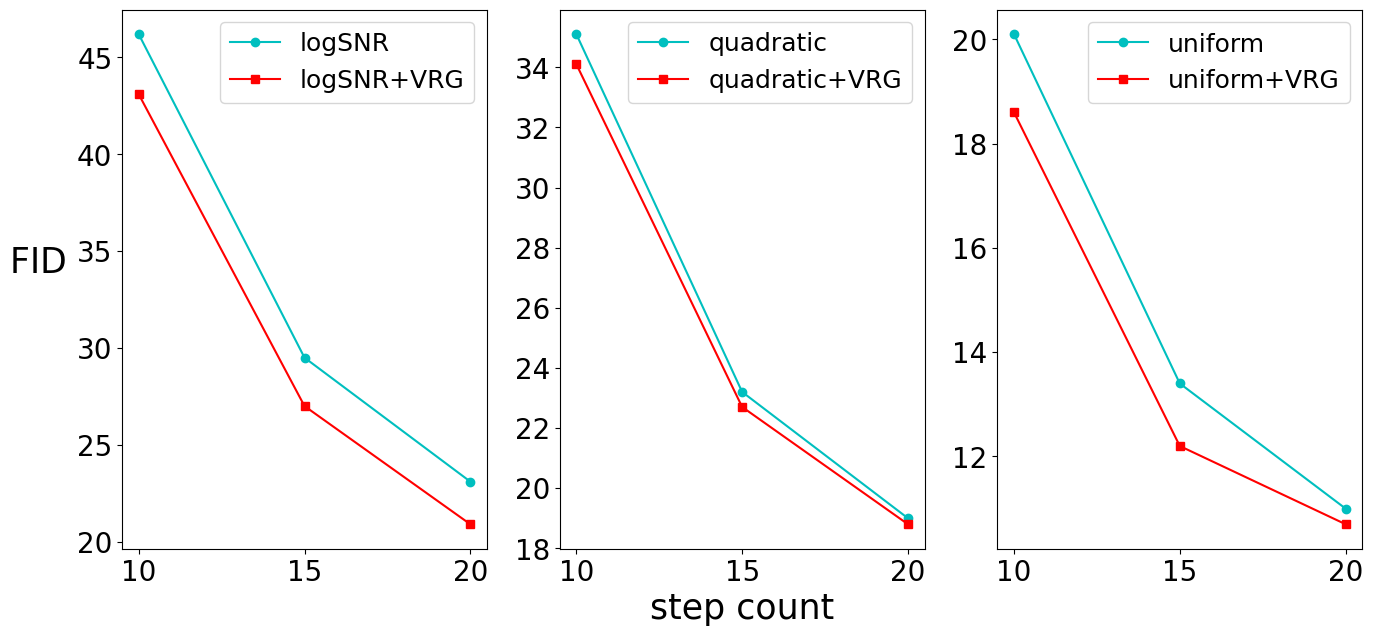
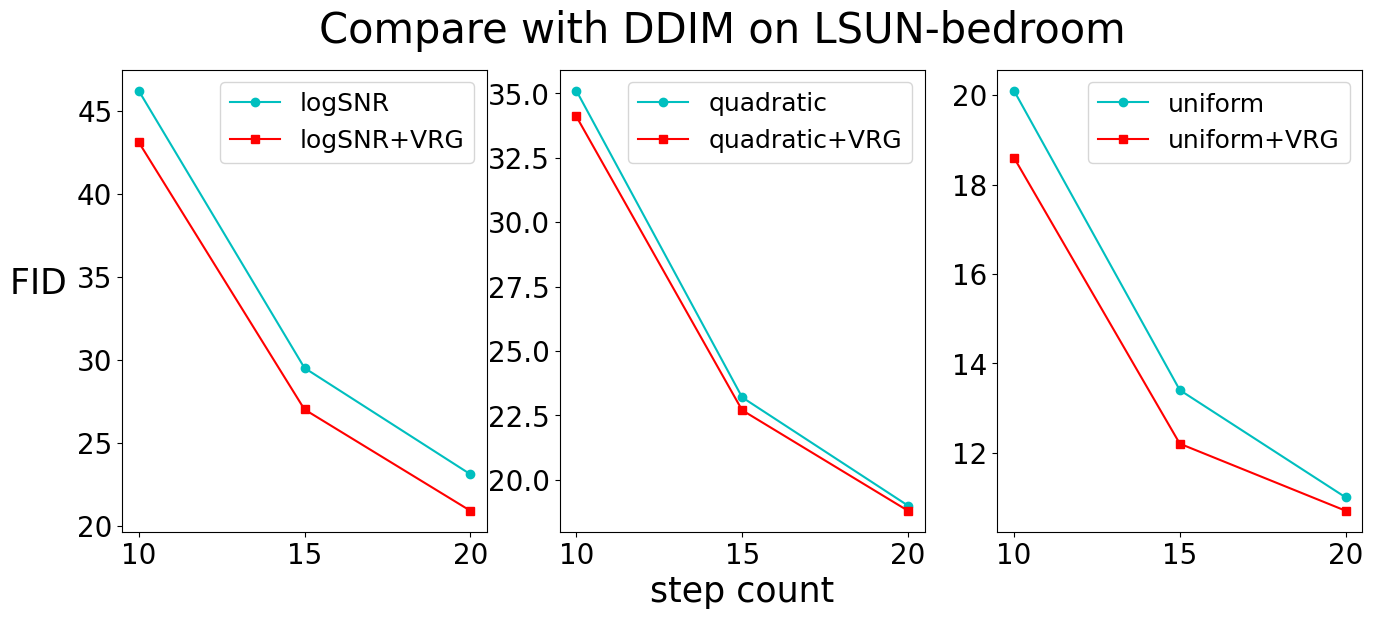
main_chart.py: add more figures.

diff --git a/main_chart.py b/main_chart.py
@@ -392,7 +392,7 @@ def fid_compare_ddim_cifar10():
     fid_uni = [16.8, 10.7, 8.3, 7.1, 4.8, 4.0]    # uniform
     fid_un2 = [11.1,  7.7, 6.1, 5.8, 4.4, 3.8]    # uniform + VRG
     steps = ['10', '15', '20', '25', '50', '100']
-    fig = plt.figure(figsize=(16, 7))
+    fig = plt.figure(figsize=(16, 6))
     ax1 = fig.add_subplot(1, 3, 1)
     ax2 = fig.add_subplot(1, 3, 2)
     ax3 = fig.add_subplot(1, 3, 3)
@@ -411,8 +411,9 @@ def fid_compare_ddim_cifar10():
         ax.plot(steps, fids[1], linestyle='-', color='r', marker='s', label=lbs[1])
         ax.legend(fontsize=18, loc='upper right')
     # for
+    fig.suptitle("Compare with DDIM on CIFAR10", fontsize=30)
     plt.show()
-    f_path = './configs/chart/fid_compare_ddim.png'
+    f_path = './configs/chart/fid_ddim_cifar10.png'
     fig.savefig(f_path, bbox_inches='tight')
     print(f"file saved: {f_path}")
     plt.close()
@@ -425,7 +426,7 @@ def fid_compare_ddim_bedroom():
     fid_uni = [20.1, 13.4, 11.0]    # uniform
     fid_un2 = [18.6, 12.2, 10.7]    # uniform + VRG
     steps = ['10', '15', '20']
-    fig = plt.figure(figsize=(16, 7))
+    fig = plt.figure(figsize=(16, 6))
     ax1 = fig.add_subplot(1, 3, 1)
     ax2 = fig.add_subplot(1, 3, 2)
     ax3 = fig.add_subplot(1, 3, 3)
@@ -444,6 +445,7 @@ def fid_compare_ddim_bedroom():
         ax.plot(steps, fids[1], linestyle='-', color='r', marker='s', label=lbs[1])
         ax.legend(fontsize=18, loc='upper right')
     # for
+    fig.suptitle("Compare with DDIM on LSUN-bedroom", fontsize=30)
     plt.show()
     f_path = './configs/chart/fid_ddim_bedroom.png'
     fig.savefig(f_path, bbox_inches='tight')
@@ -458,7 +460,7 @@ def fid_compare_ddim_celeba():
     fid_uni = [15.4, 9.6, 7.1]      # uniform
     fid_un2 = [14.7, 9.2, 7.0]      # uniform + VRG
     steps = ['10', '15', '20']
-    fig = plt.figure(figsize=(16, 7))
+    fig = plt.figure(figsize=(16, 6))
     ax1 = fig.add_subplot(1, 3, 1)
     ax2 = fig.add_subplot(1, 3, 2)
     ax3 = fig.add_subplot(1, 3, 3)
@@ -477,10 +479,248 @@ def fid_compare_ddim_celeba():
         ax.plot(steps, fids[1], linestyle='-', color='r', marker='s', label=lbs[1])
         ax.legend(fontsize=18, loc='upper right')
     # for
+    fig.suptitle("Compare with DDIM on CelebA", fontsize=30)
     plt.show()
     f_path = './configs/chart/fid_ddim_celeba.png'
     fig.savefig(f_path, bbox_inches='tight')
     print(f"file saved: {f_path}")
+    plt.close()
+
+def fid_compare_pndm_cifar10():
+    fid_s  = [22.192, 9.7003, 6.8920, 5.6528]    # S-PNDM
+    fid_s2 = [17.714, 6.7580, 4.6959, 4.0628]    # S-PNDM + VRG
+    fid_f  = [18.623, 8.3909, 5.5028, 4.6607]    # F-PNDM
+    fid_f2 = [12.465, 4.8597, 3.6508, 3.6243]    # F-PNDM + VRG
+    steps = ['5', '10', '15', '20']
+    fig = plt.figure(figsize=(16, 8))
+    ax1 = fig.add_subplot(1, 2, 1)
+    ax2 = fig.add_subplot(1, 2, 2)
+    ax1.set_ylim((0, 23))
+    ax2.set_ylim((0, 23))
+    # plt.xlim((0, 1.02))
+    # plt.ylim((0, 1800))
+    axs = [ax1, ax2]
+    fid_arr = [[fid_s, fid_s2], [fid_f, fid_f2]]
+    lbl_arr = [[s, f"{s}+VRG"] for s in ['S-PNDM', 'F-PNDM']]
+    for ax, fids, lbs in zip(axs, fid_arr, lbl_arr):
+        ax.tick_params('both', labelsize=20)
+        ax.plot(steps, fids[0], linestyle='-', color='c', marker='o', label=lbs[0])
+        ax.plot(steps, fids[1], linestyle='-', color='r', marker='s', label=lbs[1])
+        ax.legend(fontsize=20, loc='upper right')
+    # for
+    fig.supxlabel('step count', fontsize=25)
+    fig.supylabel('   FID', fontsize=25, rotation=0)
+    fig.suptitle("Compare with PNDM on CIFAR10", fontsize=30)
+    plt.show()
+    f_path = './configs/chart/fid_pndm_cifar10.png'
+    fig.savefig(f_path, bbox_inches='tight')
+    print(f"file saved: {f_path}")
+    plt.close()
+
+def fid_compare_splitnm_imagenet():
+    fid_c64_old  = [220.4, 151.2, 134.4, 116.7, 46.97]  # conditional 64*64, original trajectory
+    fid_c64_new  = [28.19, 13.57, 10.64, 9.286, 6.252]  # conditional 64*64, new trajectory
+    fid_c128_old = [73.06, 59.44, 51.05, 51.33, 53.00]
+    fid_c128_new = [71.79, 57.55, 50.53, 50.76, 52.89]
+    steps = ['10', '15', '20', '25', '50']
+    fig = plt.figure(figsize=(16, 8))
+    ax1 = fig.add_subplot(1, 2, 1)
+    ax2 = fig.add_subplot(1, 2, 2)
+    axs = [ax1, ax2]
+    fid_arr = [[fid_c64_old, fid_c64_new], [fid_c128_old, fid_c128_new]]
+    ttl_arr = ['image size: 64*64', 'image size: 128*128']
+    lbl_arr = ['STSP', 'STSP+VRG']
+    for ax, fids, ttl in zip(axs, fid_arr, ttl_arr):
+        ax.tick_params('both', labelsize=20)
+        ax.plot(steps, fids[0], linestyle='-', color='c', marker='o')
+        ax.plot(steps, fids[1], linestyle='-', color='r', marker='s')
+        ax.legend(lbl_arr, fontsize=20, loc='upper right')
+        ax.set_title(ttl, fontsize=25)
+    # for
+    fig.supylabel('  FID', fontsize=25, rotation=0)  # make it horizontal
+    fig.supxlabel('step count', fontsize=25)
+    fig.suptitle("Compare with SplitNM on ImageNet", fontsize=30)
+    plt.show()
+    f_path = './configs/chart/fid_splitnm_imagenet.png'
+    fig.savefig(f_path, bbox_inches='tight')
+    print(f"file saved: {f_path}")
+    plt.close()
+
+def fig_trajectory_compare_all3():
+    fig = plt.figure(figsize=(12, 7))
+    ax_arr = fig.add_subplot(311), fig.add_subplot(312), fig.add_subplot(313)
+    ab_log_ori = [0.999309, 0.995248, 0.968069, 0.814417, 0.388457, 0.084202, 0.013133, 0.001922, 0.000278, 0.000040]
+    ts_log_ori = [0.003, 0.016, 0.051, 0.138, 0.302, 0.492, 0.652, 0.784, 0.898, 0.998]
+    ab_log_new = [0.998924, 0.995163, 0.977908, 0.832462, 0.405384, 0.091924, 0.015257, 0.002386, 0.000370, 0.000057]
+    ts_log_new = [0.005, 0.017, 0.042, 0.130, 0.295, 0.483, 0.641, 0.771, 0.882, 0.981]
+    ab_qua_ori = [0.995807, 0.970207, 0.889866, 0.723901, 0.481753, 0.236788, 0.075947, 0.013741, 0.001185, 0.000040]
+    ts_qua_ori = [0.015, 0.049, 0.102, 0.174, 0.265, 0.374, 0.502, 0.649, 0.814, 0.998]
+    ab_qua_new = [0.996924, 0.981219, 0.909756, 0.749162, 0.506046, 0.253784, 0.083935, 0.016025, 0.001543, 0.000068]
+    ts_qua_new = [0.012, 0.038, 0.091, 0.164, 0.255, 0.365, 0.492, 0.637, 0.798, 0.972]
+    ab_uni_ori = [0.895328, 0.656884, 0.394732, 0.194200, 0.078190, 0.025754, 0.006936, 0.001527, 0.000274, 0.000040]
+    ts_uni_ori = [0.099, 0.199, 0.299, 0.399, 0.499, 0.599, 0.699, 0.799, 0.899, 0.998]
+    ab_uni_new = [0.905291, 0.673222, 0.411267, 0.206440, 0.085181, 0.028907, 0.008075, 0.001858, 0.000353, 0.000055]
+    ts_uni_new = [0.094, 0.193, 0.292, 0.391, 0.490, 0.589, 0.688, 0.786, 0.885, 0.983]
+    ab_all = [0.999900, 0.999780, 0.999640, 0.999481, 0.999301, 0.999102, 0.998882, 0.998643, 0.998384, 0.998105,
+              0.997807, 0.997488, 0.997150, 0.996792, 0.996414, 0.996017, 0.995600, 0.995163, 0.994707, 0.994231,
+              0.993735, 0.993220, 0.992686, 0.992131, 0.991558, 0.990965, 0.990353, 0.989721, 0.989070, 0.988400,
+              0.987710, 0.987002, 0.986274, 0.985527, 0.984761, 0.983976, 0.983172, 0.982349, 0.981507, 0.980646,
+              0.979767, 0.978869, 0.977952, 0.977016, 0.976062, 0.975090, 0.974099, 0.973089, 0.972062, 0.971016,
+              0.969951, 0.968869, 0.967768, 0.966650, 0.965514, 0.964359, 0.963187, 0.961997, 0.960789, 0.959564,
+              0.958321, 0.957061, 0.955783, 0.954488, 0.953176, 0.951846, 0.950500, 0.949136, 0.947756, 0.946358,
+              0.944944, 0.943513, 0.942065, 0.940601, 0.939121, 0.937624, 0.936110, 0.934581, 0.933035, 0.931474,
+              0.929896, 0.928303, 0.926694, 0.925069, 0.923428, 0.921773, 0.920101, 0.918415, 0.916713, 0.914996,
+              0.913264, 0.911517, 0.909756, 0.907979, 0.906188, 0.904383, 0.902563, 0.900729, 0.898880, 0.897018,
+              0.895141, 0.893251, 0.891347, 0.889429, 0.887497, 0.885552, 0.883594, 0.881622, 0.879637, 0.877639,
+              0.875629, 0.873605, 0.871569, 0.869520, 0.867458, 0.865384, 0.863298, 0.861200, 0.859089, 0.856967,
+              0.854832, 0.852687, 0.850529, 0.848360, 0.846180, 0.843988, 0.841785, 0.839572, 0.837347, 0.835112,
+              0.832865, 0.830609, 0.828342, 0.826064, 0.823777, 0.821479, 0.819171, 0.816854, 0.814527, 0.812190,
+              0.809844, 0.807488, 0.805123, 0.802750, 0.800367, 0.797975, 0.795574, 0.793165, 0.790747, 0.788321,
+              0.785887, 0.783444, 0.780994, 0.778536, 0.776069, 0.773596, 0.771114, 0.768626, 0.766130, 0.763626,
+              0.761116, 0.758599, 0.756075, 0.753545, 0.751008, 0.748464, 0.745914, 0.743358, 0.740797, 0.738229,
+              0.735655, 0.733075, 0.730490, 0.727900, 0.725304, 0.722703, 0.720097, 0.717486, 0.714871, 0.712250,
+              0.709625, 0.706995, 0.704362, 0.701724, 0.699081, 0.696435, 0.693785, 0.691131, 0.688474, 0.685813,
+              0.683149, 0.680481, 0.677811, 0.675137, 0.672461, 0.669782, 0.667099, 0.664415, 0.661728, 0.659039,
+              0.656347, 0.653654, 0.650958, 0.648261, 0.645561, 0.642861, 0.640158, 0.637455, 0.634750, 0.632044,
+              0.629336, 0.626628, 0.623919, 0.621210, 0.618500, 0.615789, 0.613078, 0.610366, 0.607655, 0.604943,
+              0.602232, 0.599520, 0.596809, 0.594098, 0.591388, 0.588678, 0.585969, 0.583261, 0.580554, 0.577847,
+              0.575142, 0.572438, 0.569735, 0.567034, 0.564334, 0.561636, 0.558940, 0.556245, 0.553552, 0.550861,
+              0.548173, 0.545486, 0.542802, 0.540120, 0.537441, 0.534764, 0.532090, 0.529419, 0.526751, 0.524085,
+              0.521423, 0.518764, 0.516108, 0.513455, 0.510806, 0.508160, 0.505518, 0.502880, 0.500245, 0.497614,
+              0.494987, 0.492364, 0.489745, 0.487130, 0.484520, 0.481914, 0.479312, 0.476715, 0.474122, 0.471534,
+              0.468951, 0.466372, 0.463799, 0.461230, 0.458667, 0.456108, 0.453555, 0.451007, 0.448464, 0.445927,
+              0.443395, 0.440869, 0.438348, 0.435833, 0.433324, 0.430821, 0.428324, 0.425832, 0.423346, 0.420867,
+              0.418394, 0.415926, 0.413466, 0.411011, 0.408563, 0.406121, 0.403686, 0.401257, 0.398835, 0.396420,
+              0.394011, 0.391609, 0.389214, 0.386826, 0.384445, 0.382071, 0.379704, 0.377344, 0.374991, 0.372645,
+              0.370307, 0.367976, 0.365652, 0.363335, 0.361027, 0.358725, 0.356431, 0.354145, 0.351866, 0.349595,
+              0.347331, 0.345076, 0.342828, 0.340588, 0.338356, 0.336131, 0.333915, 0.331706, 0.329506, 0.327314,
+              0.325129, 0.322953, 0.320785, 0.318625, 0.316473, 0.314329, 0.312194, 0.310067, 0.307949, 0.305838,
+              0.303736, 0.301643, 0.299558, 0.297481, 0.295413, 0.293353, 0.291302, 0.289259, 0.287225, 0.285200,
+              0.283183, 0.281174, 0.279175, 0.277184, 0.275201, 0.273228, 0.271263, 0.269307, 0.267359, 0.265420,
+              0.263490, 0.261569, 0.259657, 0.257754, 0.255859, 0.253973, 0.252096, 0.250228, 0.248368, 0.246518,
+              0.244676, 0.242844, 0.241020, 0.239205, 0.237399, 0.235602, 0.233814, 0.232034, 0.230264, 0.228503,
+              0.226750, 0.225007, 0.223272, 0.221546, 0.219829, 0.218121, 0.216422, 0.214732, 0.213051, 0.211379,
+              0.209716, 0.208061, 0.206416, 0.204779, 0.203152, 0.201533, 0.199923, 0.198322, 0.196730, 0.195146,
+              0.193572, 0.192006, 0.190450, 0.188902, 0.187363, 0.185832, 0.184311, 0.182798, 0.181294, 0.179799,
+              0.178313, 0.176835, 0.175366, 0.173906, 0.172454, 0.171011, 0.169577, 0.168152, 0.166735, 0.165326,
+              0.163927, 0.162535, 0.161153, 0.159779, 0.158413, 0.157056, 0.155708, 0.154368, 0.153036, 0.151713,
+              0.150399, 0.149092, 0.147794, 0.146505, 0.145224, 0.143951, 0.142686, 0.141430, 0.140182, 0.138942,
+              0.137710, 0.136487, 0.135271, 0.134064, 0.132865, 0.131674, 0.130491, 0.129316, 0.128149, 0.126990,
+              0.125839, 0.124696, 0.123561, 0.122433, 0.121314, 0.120202, 0.119098, 0.118002, 0.116914, 0.115833,
+              0.114760, 0.113695, 0.112637, 0.111587, 0.110544, 0.109509, 0.108482, 0.107462, 0.106449, 0.105444,
+              0.104447, 0.103456, 0.102473, 0.101497, 0.100529, 0.099568, 0.098614, 0.097667, 0.096727, 0.095794,
+              0.094869, 0.093950, 0.093039, 0.092134, 0.091237, 0.090346, 0.089463, 0.088586, 0.087716, 0.086853,
+              0.085996, 0.085146, 0.084303, 0.083467, 0.082637, 0.081814, 0.080998, 0.080188, 0.079384, 0.078587,
+              0.077797, 0.077013, 0.076235, 0.075463, 0.074698, 0.073939, 0.073186, 0.072440, 0.071700, 0.070966,
+              0.070238, 0.069516, 0.068800, 0.068090, 0.067386, 0.066688, 0.065996, 0.065309, 0.064629, 0.063954,
+              0.063285, 0.062622, 0.061965, 0.061313, 0.060667, 0.060026, 0.059392, 0.058762, 0.058138, 0.057520,
+              0.056907, 0.056299, 0.055697, 0.055100, 0.054508, 0.053922, 0.053341, 0.052765, 0.052194, 0.051629,
+              0.051068, 0.050513, 0.049962, 0.049417, 0.048876, 0.048341, 0.047810, 0.047284, 0.046764, 0.046247,
+              0.045736, 0.045230, 0.044728, 0.044231, 0.043738, 0.043250, 0.042767, 0.042288, 0.041814, 0.041344,
+              0.040879, 0.040418, 0.039961, 0.039509, 0.039061, 0.038618, 0.038178, 0.037743, 0.037313, 0.036886,
+              0.036463, 0.036045, 0.035631, 0.035220, 0.034814, 0.034412, 0.034014, 0.033619, 0.033229, 0.032842,
+              0.032460, 0.032081, 0.031706, 0.031334, 0.030966, 0.030603, 0.030242, 0.029886, 0.029533, 0.029183,
+              0.028837, 0.028495, 0.028156, 0.027821, 0.027489, 0.027160, 0.026835, 0.026513, 0.026195, 0.025879,
+              0.025567, 0.025259, 0.024953, 0.024651, 0.024352, 0.024056, 0.023763, 0.023474, 0.023187, 0.022903,
+              0.022623, 0.022345, 0.022071, 0.021799, 0.021530, 0.021264, 0.021001, 0.020741, 0.020484, 0.020229,
+              0.019977, 0.019728, 0.019482, 0.019238, 0.018997, 0.018758, 0.018523, 0.018289, 0.018059, 0.017831,
+              0.017605, 0.017382, 0.017161, 0.016943, 0.016728, 0.016514, 0.016304, 0.016095, 0.015889, 0.015685,
+              0.015484, 0.015284, 0.015087, 0.014893, 0.014700, 0.014510, 0.014321, 0.014135, 0.013952, 0.013770,
+              0.013590, 0.013413, 0.013237, 0.013064, 0.012892, 0.012723, 0.012555, 0.012389, 0.012226, 0.012064,
+              0.011904, 0.011746, 0.011590, 0.011436, 0.011284, 0.011133, 0.010984, 0.010837, 0.010692, 0.010548,
+              0.010407, 0.010266, 0.010128, 0.009991, 0.009856, 0.009722, 0.009591, 0.009460, 0.009332, 0.009204,
+              0.009079, 0.008955, 0.008832, 0.008711, 0.008592, 0.008474, 0.008357, 0.008242, 0.008128, 0.008016,
+              0.007905, 0.007795, 0.007687, 0.007580, 0.007474, 0.007370, 0.007267, 0.007166, 0.007065, 0.006966,
+              0.006868, 0.006772, 0.006676, 0.006582, 0.006489, 0.006397, 0.006307, 0.006217, 0.006129, 0.006042,
+              0.005956, 0.005871, 0.005787, 0.005704, 0.005623, 0.005542, 0.005462, 0.005384, 0.005306, 0.005230,
+              0.005154, 0.005080, 0.005006, 0.004933, 0.004862, 0.004791, 0.004721, 0.004652, 0.004585, 0.004518,
+              0.004451, 0.004386, 0.004322, 0.004258, 0.004195, 0.004134, 0.004073, 0.004012, 0.003953, 0.003894,
+              0.003837, 0.003780, 0.003723, 0.003668, 0.003613, 0.003559, 0.003506, 0.003453, 0.003402, 0.003351,
+              0.003300, 0.003250, 0.003201, 0.003153, 0.003105, 0.003058, 0.003012, 0.002966, 0.002921, 0.002877,
+              0.002833, 0.002790, 0.002747, 0.002705, 0.002664, 0.002623, 0.002582, 0.002543, 0.002504, 0.002465,
+              0.002427, 0.002389, 0.002352, 0.002316, 0.002280, 0.002245, 0.002210, 0.002175, 0.002141, 0.002108,
+              0.002075, 0.002042, 0.002010, 0.001979, 0.001948, 0.001917, 0.001887, 0.001857, 0.001828, 0.001799,
+              0.001770, 0.001742, 0.001715, 0.001687, 0.001661, 0.001634, 0.001608, 0.001582, 0.001557, 0.001532,
+              0.001508, 0.001483, 0.001459, 0.001436, 0.001413, 0.001390, 0.001368, 0.001345, 0.001324, 0.001302,
+              0.001281, 0.001260, 0.001240, 0.001220, 0.001200, 0.001180, 0.001161, 0.001142, 0.001123, 0.001105,
+              0.001086, 0.001069, 0.001051, 0.001034, 0.001017, 0.001000, 0.000983, 0.000967, 0.000951, 0.000935,
+              0.000919, 0.000904, 0.000889, 0.000874, 0.000860, 0.000845, 0.000831, 0.000817, 0.000803, 0.000790,
+              0.000777, 0.000764, 0.000751, 0.000738, 0.000726, 0.000713, 0.000701, 0.000689, 0.000678, 0.000666,
+              0.000655, 0.000643, 0.000633, 0.000622, 0.000611, 0.000601, 0.000590, 0.000580, 0.000570, 0.000560,
+              0.000551, 0.000541, 0.000532, 0.000523, 0.000514, 0.000505, 0.000496, 0.000487, 0.000479, 0.000471,
+              0.000462, 0.000454, 0.000446, 0.000439, 0.000431, 0.000423, 0.000416, 0.000409, 0.000401, 0.000394,
+              0.000387, 0.000381, 0.000374, 0.000367, 0.000361, 0.000354, 0.000348, 0.000342, 0.000336, 0.000330,
+              0.000324, 0.000318, 0.000312, 0.000307, 0.000301, 0.000296, 0.000291, 0.000285, 0.000280, 0.000275,
+              0.000270, 0.000265, 0.000261, 0.000256, 0.000251, 0.000247, 0.000242, 0.000238, 0.000233, 0.000229,
+              0.000225, 0.000221, 0.000217, 0.000213, 0.000209, 0.000205, 0.000201, 0.000198, 0.000194, 0.000191,
+              0.000187, 0.000184, 0.000180, 0.000177, 0.000174, 0.000170, 0.000167, 0.000164, 0.000161, 0.000158,
+              0.000155, 0.000152, 0.000149, 0.000147, 0.000144, 0.000141, 0.000139, 0.000136, 0.000133, 0.000131,
+              0.000128, 0.000126, 0.000124, 0.000121, 0.000119, 0.000117, 0.000114, 0.000112, 0.000110, 0.000108,
+              0.000106, 0.000104, 0.000102, 0.000100, 0.000098, 0.000096, 0.000094, 0.000093, 0.000091, 0.000089,
+              0.000087, 0.000086, 0.000084, 0.000082, 0.000081, 0.000079, 0.000078, 0.000076, 0.000075, 0.000073,
+              0.000072, 0.000071, 0.000069, 0.000068, 0.000066, 0.000065, 0.000064, 0.000063, 0.000061, 0.000060,
+              0.000059, 0.000058, 0.000057, 0.000056, 0.000055, 0.000053, 0.000052, 0.000051, 0.000050, 0.000049,
+              0.000048, 0.000047, 0.000046, 0.000046, 0.000045, 0.000044, 0.000043, 0.000042, 0.000041, 0.000040]
+    ts_all = list(range(len(ab_all)))
+    ts_all = [(float(i))/1000.0 for i in ts_all]
+    abo_arr = [ab_log_ori, ab_qua_ori, ab_uni_ori]
+    tso_arr = [ts_log_ori, ts_qua_ori, ts_uni_ori]
+    abn_arr = [ab_log_new, ab_qua_new, ab_uni_new]
+    tsn_arr = [ts_log_new, ts_qua_new, ts_uni_new]
+    ttl_arr = ['logSNR', 'quadratic', 'uniform']
+    for ax, ab_ori, ts_ori, ab_new, ts_new, ttl in zip(ax_arr, abo_arr, tso_arr, abn_arr, tsn_arr, ttl_arr):
+        ax.tick_params('both', labelsize=12)
+        ax.set_xlim((0, 1.02))
+        ax.set_ylim((-0.05, 1.05))
+        ax.plot(ts_ori, ab_ori, 'o', ms=6, color='b')
+        ax.plot(ts_new, ab_new, '*', ms=6, color='red')
+        ax.plot(ts_all, ab_all, '--', color='green', linewidth=1)
+        # why duplicate: the ax legend only follow the plot order, but we want marker cover line.
+        ax.plot(ts_ori, ab_ori, 'o', ms=6, color='b')
+        ax.plot(ts_new, ab_new, '*', ms=6, color='red')
+        # add text. annotation for dot and star.
+        # ax.plot([0.27], [0.855], 'o', ms=10, color='blue')
+        # ax.text(0.29, 0.84, ': original trajectory', size=15)
+        # ax.plot([0.27], [0.755], '*', ms=16, color='red')
+        # ax.text(0.29, 0.74, ': improved trajectory', size=15)
+        ax.legend(['Baseline trajectory', 'Optimized trajectory'], fontsize=12, loc='upper right')
+        ax.text(0.45, 0.9, ttl, size=15)
+    # for
+    fig.supylabel(r"      $\bar{\alpha}$", fontsize=20, rotation=0)  # make it horizontal
+    fig.supxlabel('timestep t', fontsize=15)
+    plt.show()
+    f_path = './configs/chart/abc_o1_s10_all3.png'
+    fig.savefig(f_path, bbox_inches='tight')
+    print(f"Saved: {f_path}")
+    plt.close()
+
+    fig = plt.figure(figsize=(7, 5))  # ------------------------- sup
+    ax = fig.add_subplot(111)
+    ab_log_ori = ab_log_ori[:3]
+    ts_log_ori = ts_log_ori[:3]
+    ab_log_new = ab_log_new[:3]
+    ts_log_new = ts_log_new[:3]
+    ab_last = min(ab_log_ori[-1], ab_log_new[-1])
+    idx = 0
+    while ab_all[idx] >= ab_last:
+        idx += 1
+    ab_all = ab_all[:idx+1]
+    ts_all = ts_all[:idx+1]
+    ab_log_ori = [f+0.0004 for f in ab_log_ori]  # small adjustment based on observation
+    ax.tick_params('both', labelsize=12)
+    ax.plot(ts_log_ori, ab_log_ori, 'o', ms=6, color='b')
+    ax.plot(ts_log_new, ab_log_new, '*', ms=6, color='red')
+    ax.plot(ts_all, ab_all, '--', color='green', linewidth=1)
+    # why duplicate: the ax legend only follow the plot order, but we want marker cover line.
+    ax.plot(ts_log_ori, ab_log_ori, 'o', ms=6, color='b')
+    ax.plot(ts_log_new, ab_log_new, '*', ms=6, color='red')
+    ax.legend(['Baseline trajectory', 'Optimized trajectory'], fontsize=12, loc='upper right')
+    fig.supylabel(r"$\bar{\alpha}$        ", fontsize=20, rotation=0)  # make it horizontal
+    fig.supxlabel('timestep t', fontsize=15)
+    plt.show()
+    f_path = './configs/chart/abc_o1_s10_all3_sup.png'
+    fig.savefig(f_path, bbox_inches='tight')
+    print(f"Saved: {f_path}")
     plt.close()
 
 def main():
@@ -489,7 +729,10 @@ def main():
     # mse_error_vs_alpha_bar()
     # fid_compare_ddim_cifar10()
     # fid_compare_ddim_bedroom()
-    fid_compare_ddim_celeba()
+    # fid_compare_ddim_celeba()
+    # fid_compare_pndm_cifar10()
+    fid_compare_splitnm_imagenet()
+    # fig_trajectory_compare_all3()
 
 if __name__ == '__main__':
     main()
